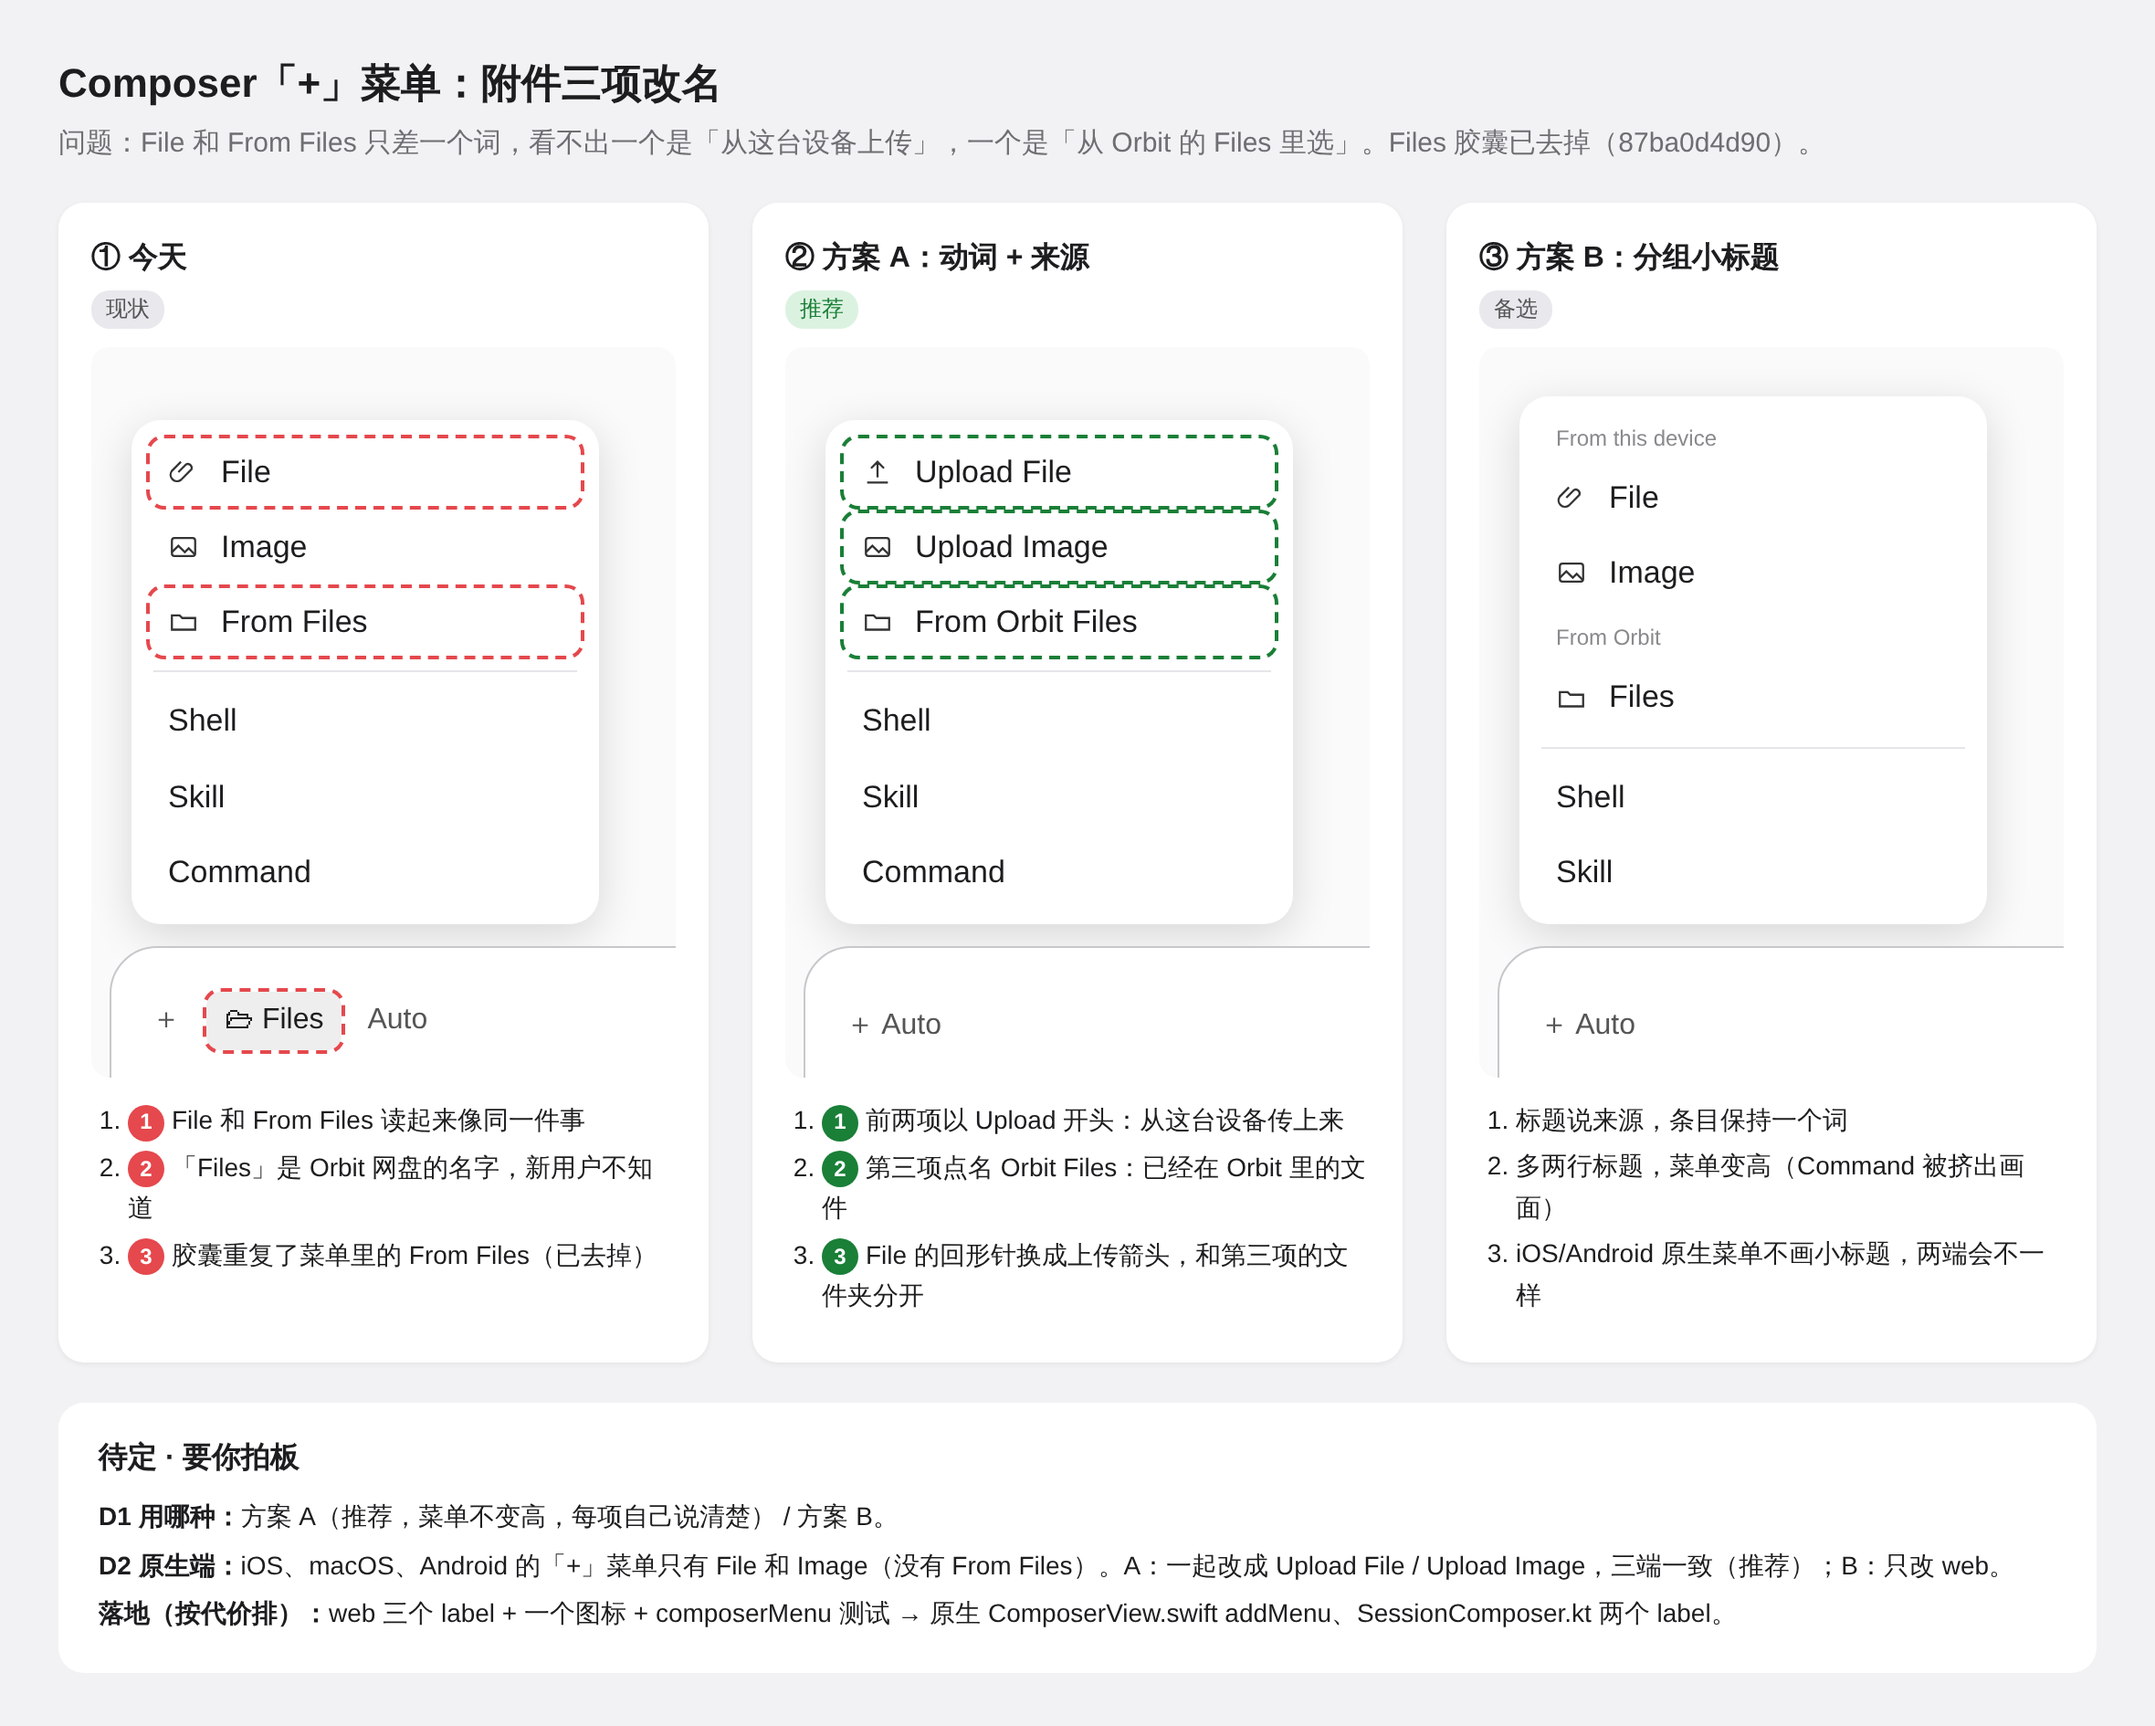
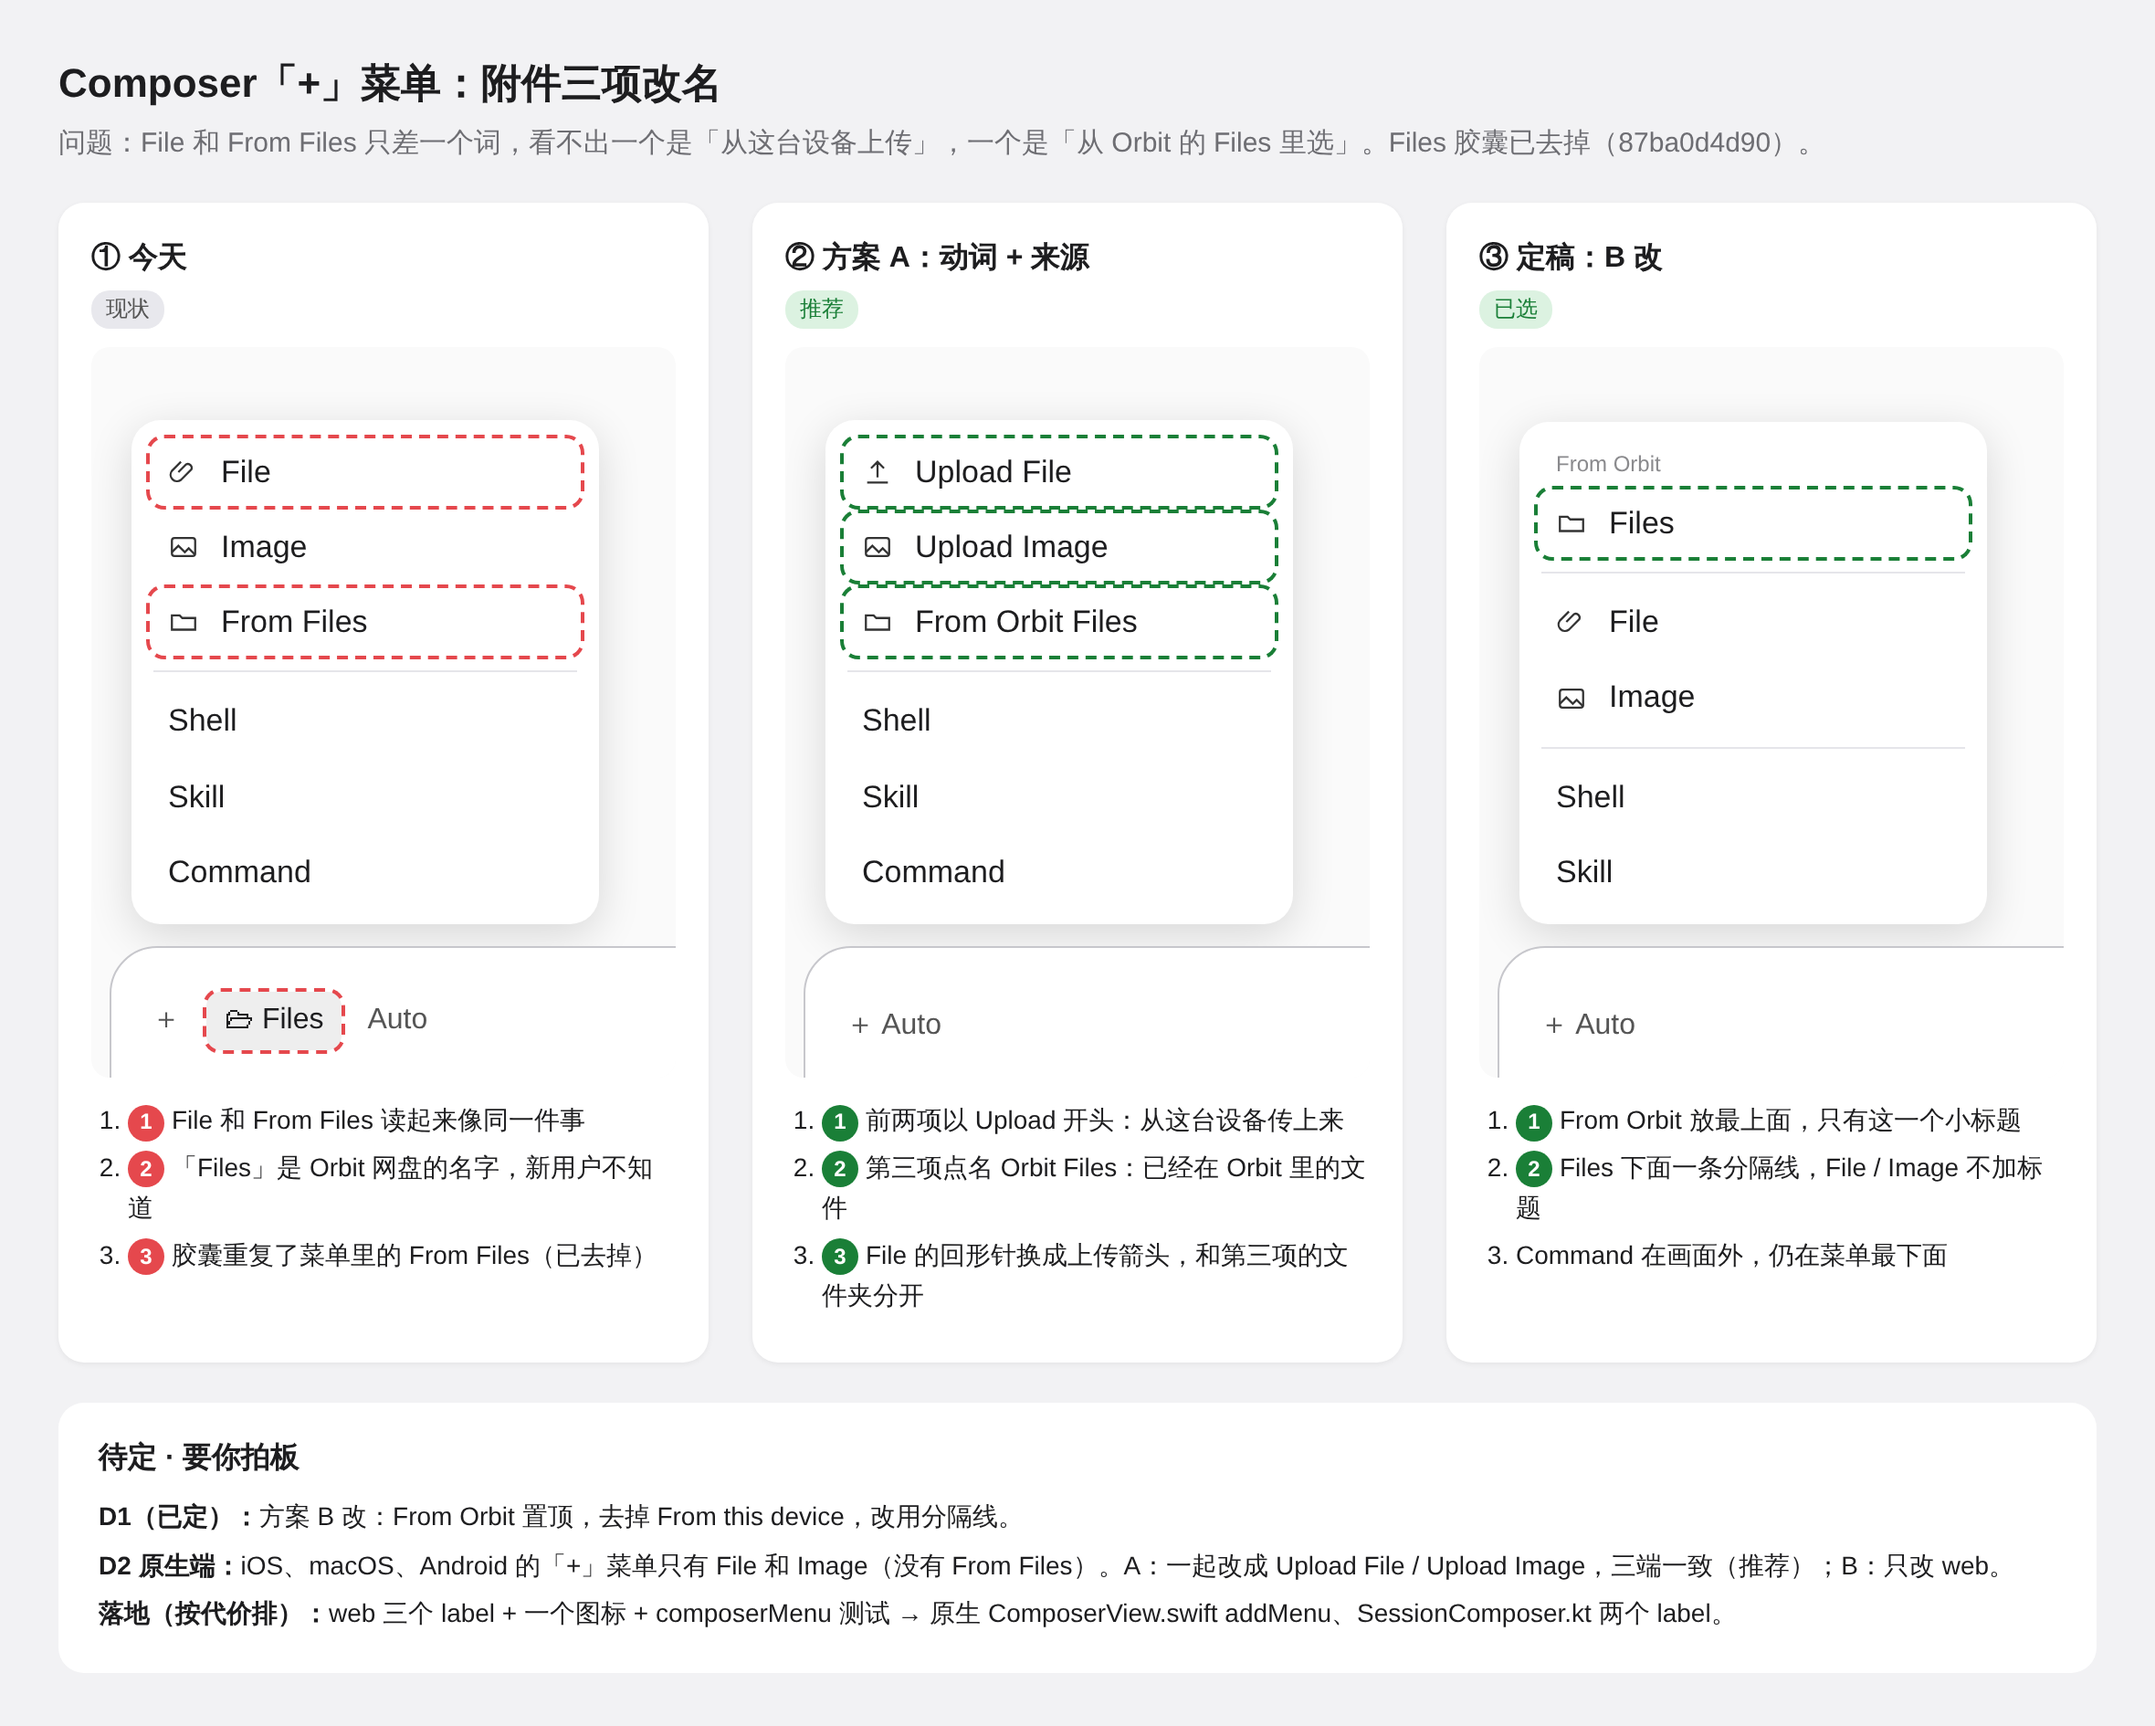
feat(web): + menu puts a rule under From Orbit instead of a From this device heading
The owner wanted one heading only; File and Image now sit below a divider. Board updated to the chosen layout.

diff --git a/docs/mocks/composer-attach-labels/board.html b/docs/mocks/composer-attach-labels/board.html
@@ -75,29 +75,29 @@
       </ol>
     </div>
     <div class="b-col">
-      <h2>③ 方案 B：分组小标题</h2><span class="b-tag">备选</span>
+      <h2>③ 定稿：B 改</h2><span class="b-tag rec">已选</span>
       <div class="b-stage">
         <div class="b-menu">
-          <div class="b-hd">From this device</div>
+          <div class="b-hd">From Orbit</div>
+          <div class="b-it good"><svg viewBox="0 0 24 24"><path d="M3 7h6l2 2h10v9H3z"/></svg>Files</div>
+          <div class="b-sep"></div>
           <div class="b-it"><svg viewBox="0 0 24 24"><path d="M8 12l6-6a3 3 0 014 4l-8 8a5 5 0 01-7-7l7-7"/></svg>File</div>
           <div class="b-it"><svg viewBox="0 0 24 24"><rect x="3" y="5" width="18" height="14" rx="2"/><path d="M3 16l5-5 5 5 3-3 5 5"/></svg>Image</div>
-          <div class="b-hd">From Orbit</div>
-          <div class="b-it"><svg viewBox="0 0 24 24"><path d="M3 7h6l2 2h10v9H3z"/></svg>Files</div>
           <div class="b-sep"></div>
           <div class="b-it">Shell</div><div class="b-it">Skill</div>
         </div>
         <div class="b-comp"><div class="b-bar">＋ Auto</div></div>
       </div>
       <ol>
-        <li>标题说来源，条目保持一个词</li>
-        <li>多两行标题，菜单变高（Command 被挤出画面）</li>
-        <li>iOS/Android 原生菜单不画小标题，两端会不一样</li>
+        <li><span class="b-mk g">1</span>From Orbit 放最上面，只有这一个小标题</li>
+        <li><span class="b-mk g">2</span>Files 下面一条分隔线，File / Image 不加标题</li>
+        <li>Command 在画面外，仍在菜单最下面</li>
       </ol>
     </div>
   </div>
   <div class="b-dec">
     <h2>待定 · 要你拍板</h2>
-    <p><b>D1 用哪种：</b>方案 A（推荐，菜单不变高，每项自己说清楚） / 方案 B。</p>
+    <p><b>D1（已定）：</b>方案 B 改：From Orbit 置顶，去掉 From this device，改用分隔线。</p>
     <p><b>D2 原生端：</b>iOS、macOS、Android 的「+」菜单只有 File 和 Image（没有 From Files）。A：一起改成 Upload File / Upload Image，三端一致（推荐）；B：只改 web。</p>
     <p><b>落地（按代价排）：</b>web 三个 label + 一个图标 + composerMenu 测试 → 原生 ComposerView.swift addMenu、SessionComposer.kt 两个 label。</p>
   </div>

diff --git a/src/web/src/components/WorkspaceView.tsx b/src/web/src/components/WorkspaceView.tsx
@@ -13045,8 +13045,9 @@ export function SessionComposer({
           // WorkspaceView.composerMenu.test.tsx, drawn in
           // docs/mocks/composer-attach-menu-phone.html.
           items={[
-              // Grouped by where the file comes from, Orbit's own Files first (owner's call on
-              // docs/mocks/composer-attach-labels, option B): "File" and "From Files" read alike.
+              // Orbit's own Files on top under a From Orbit heading, a rule, then this device's
+              // File and Image (owner's call on docs/mocks/composer-attach-labels): "File" and
+              // "From Files" read alike.
               {
                 key: 'from-orbit',
                 type: 'group',
@@ -13060,26 +13061,20 @@ export function SessionComposer({
                   },
                 ],
               },
+              { key: 'orbit-divider', type: 'separator' },
               {
-                key: 'from-device',
-                type: 'group',
-                label: 'From this device',
-                children: [
-                  {
-                    key: 'file',
-                    icon: <PaperClipOutlined />,
-                    label: 'File',
-                    onSelect: () => fileInputRef.current?.click(),
-                  },
-                  {
-                    key: 'image',
-                    icon: <PictureOutlined />,
-                    // Offered unconditionally: a state the upload can't work in says so on
-                    // pick, rather than greying the item out.
-                    label: 'Image',
-                    onSelect: () => imageInputRef.current?.click(),
-                  },
-                ],
+                key: 'file',
+                icon: <PaperClipOutlined />,
+                label: 'File',
+                onSelect: () => fileInputRef.current?.click(),
+              },
+              {
+                key: 'image',
+                icon: <PictureOutlined />,
+                // Offered unconditionally: a state the upload can't work in says so on pick,
+                // rather than greying the item out.
+                label: 'Image',
+                onSelect: () => imageInputRef.current?.click(),
               },
               { key: 'divider', type: 'separator' },
               {

diff --git a/src/web/src/components/WorkspaceView.composerMenu.test.tsx b/src/web/src/components/WorkspaceView.composerMenu.test.tsx
@@ -218,7 +218,7 @@ describe('the composer + menu', { timeout: 60_000 }, () => {
   it('draws the native menu: command group under the thumb, media group above the rule', async () => {
     const menu = await openMenu();
 
-    expect(drawn(menu)).toEqual(['# From Orbit', 'Files', '# From this device', 'File', 'Image', '─', 'Shell', 'Skill', 'Command']);
+    expect(drawn(menu)).toEqual(['# From Orbit', 'Files', '─', 'File', 'Image', '─', 'Shell', 'Skill', 'Command']);
     // …in the variant that sizes it like the native one on a phone (below).
     expect(menu.dataset.variant).toBe('attachment');
   });
